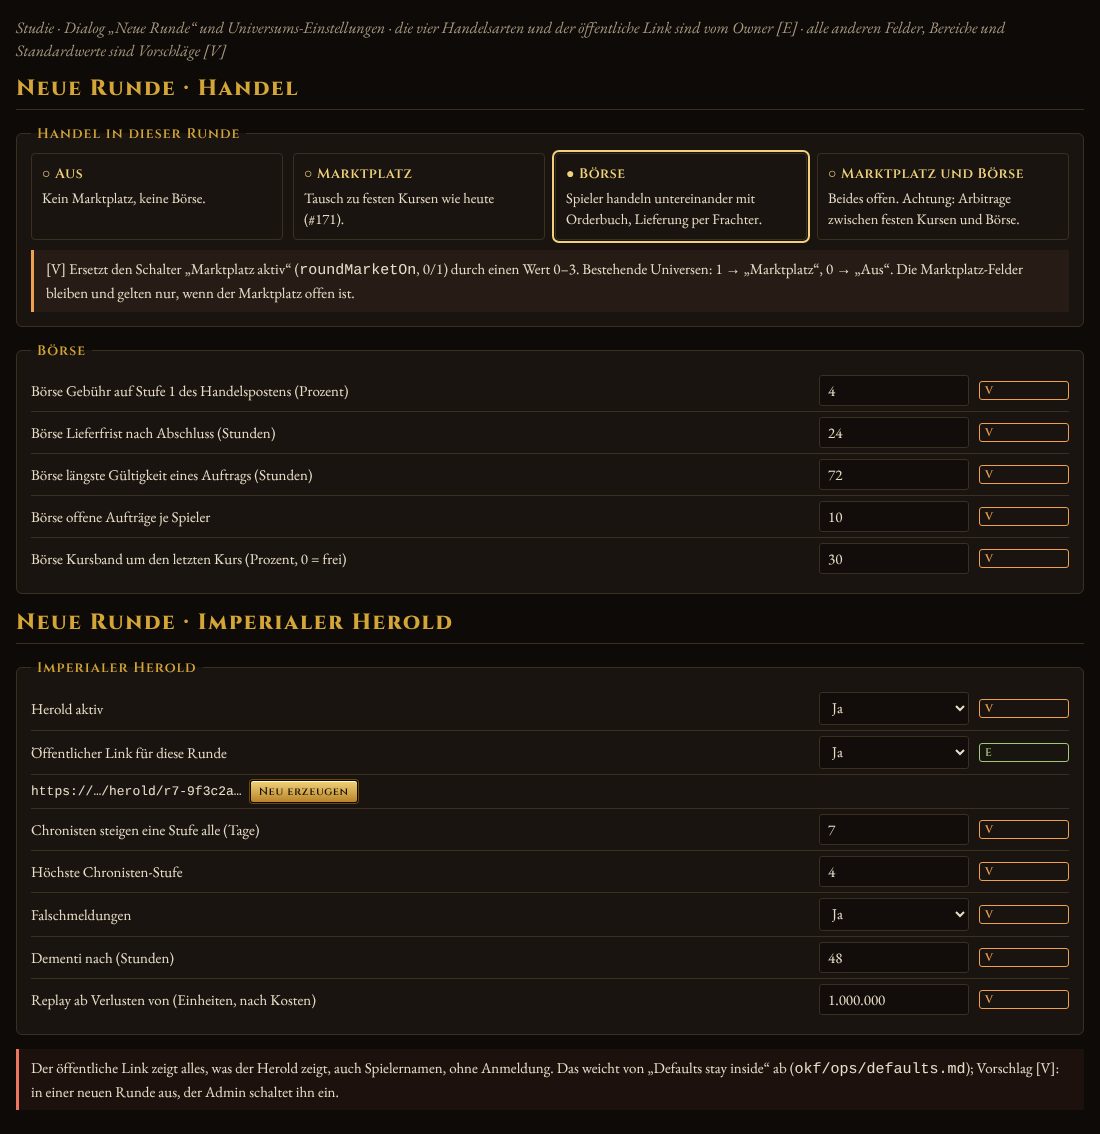
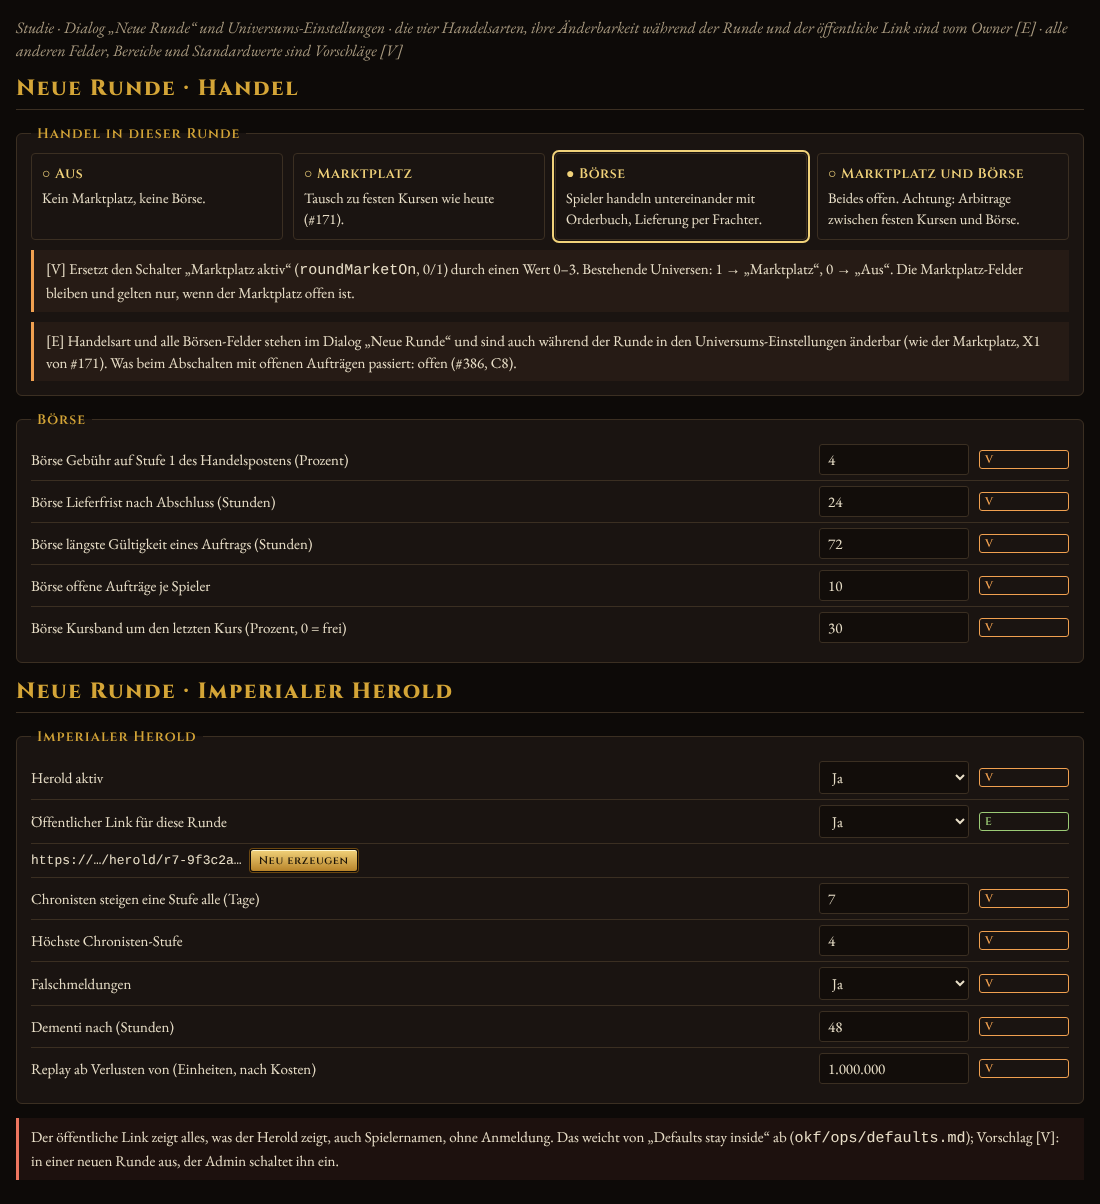
Design study: link the Börse issue #386, settings live during the round
Claude-Session: https://claude.ai/code/session_01SfKPSQzDsiVM5vdy5Nn6rs

diff --git a/docs/design/herald-exchange/admin.html b/docs/design/herald-exchange/admin.html
@@ -73,8 +73,9 @@
     <main class="mock" style="max-width: 1100px">
       <p class="cap">
         Studie · Dialog „Neue Runde“ und Universums-Einstellungen · die vier
-        Handelsarten und der öffentliche Link sind vom Owner [E] · alle anderen
-        Felder, Bereiche und Standardwerte sind Vorschläge [V]
+        Handelsarten, ihre Änderbarkeit während der Runde und der öffentliche
+        Link sind vom Owner [E] · alle anderen Felder, Bereiche und
+        Standardwerte sind Vorschläge [V]
       </p>
       <h2>Neue Runde · Handel</h2>
       <fieldset>
@@ -98,6 +99,12 @@
           (<code>roundMarketOn</code>, 0/1) durch einen Wert 0–3. Bestehende
           Universen: 1 → „Marktplatz“, 0 → „Aus“. Die Marktplatz-Felder bleiben
           und gelten nur, wenn der Marktplatz offen ist.
+        </p>
+        <p class="note" style="margin-bottom: 0">
+          [E] Handelsart und alle Börsen-Felder stehen im Dialog „Neue Runde“
+          und sind auch während der Runde in den Universums-Einstellungen
+          änderbar (wie der Marktplatz, X1 von #171). Was beim Abschalten mit
+          offenen Aufträgen passiert: offen (#386, C8).
         </p>
       </fieldset>
 

diff --git a/docs/design/herald-exchange/README.md b/docs/design/herald-exchange/README.md
@@ -1,6 +1,6 @@
 # Imperialer Herold and Börse – design study
 
-Design study for two ideas of the owner (2026-11-23, issue #382), not decided. Everything
+Design study for two ideas of the owner (2026-11-23): the Imperialer Herold (#382) and the Börse (#386), not decided. Everything
 not marked **[E]** is a proposal **[V]**: names, texts, stages, days, fees and numbers are
 examples, not game values. Interface v2 (`src/client/static/style.css`) plus `study.css`.
 
